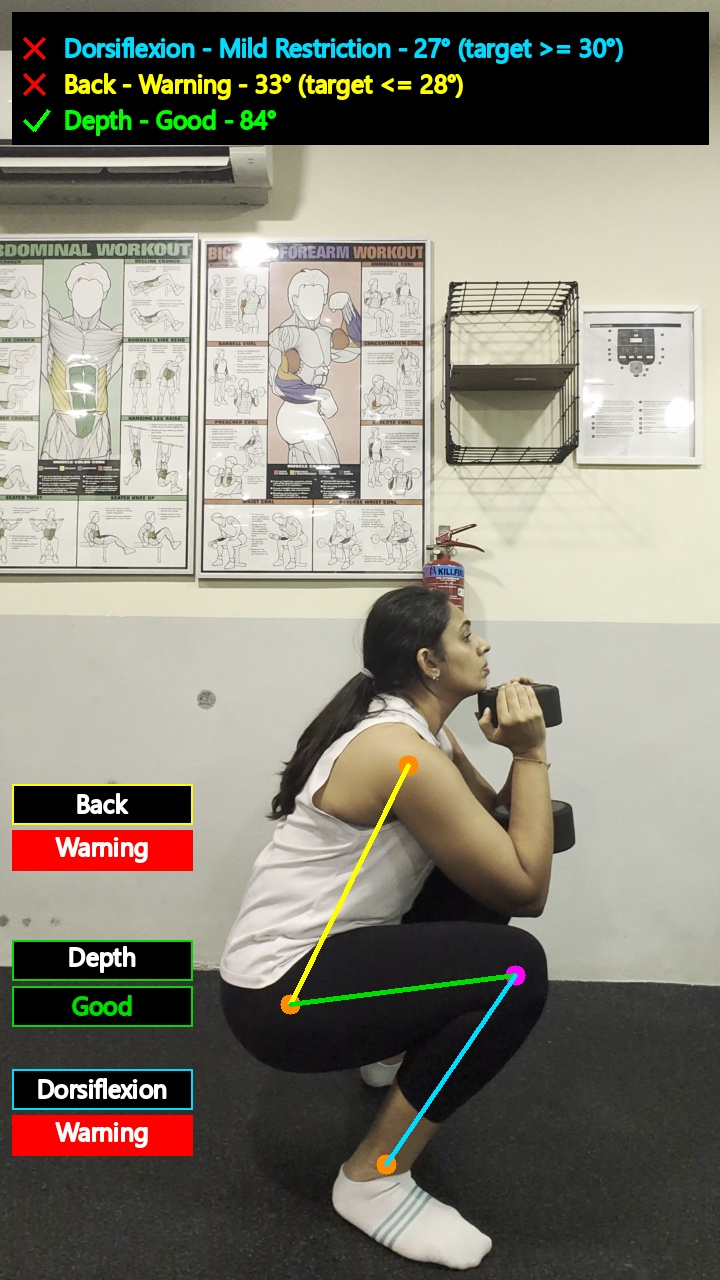
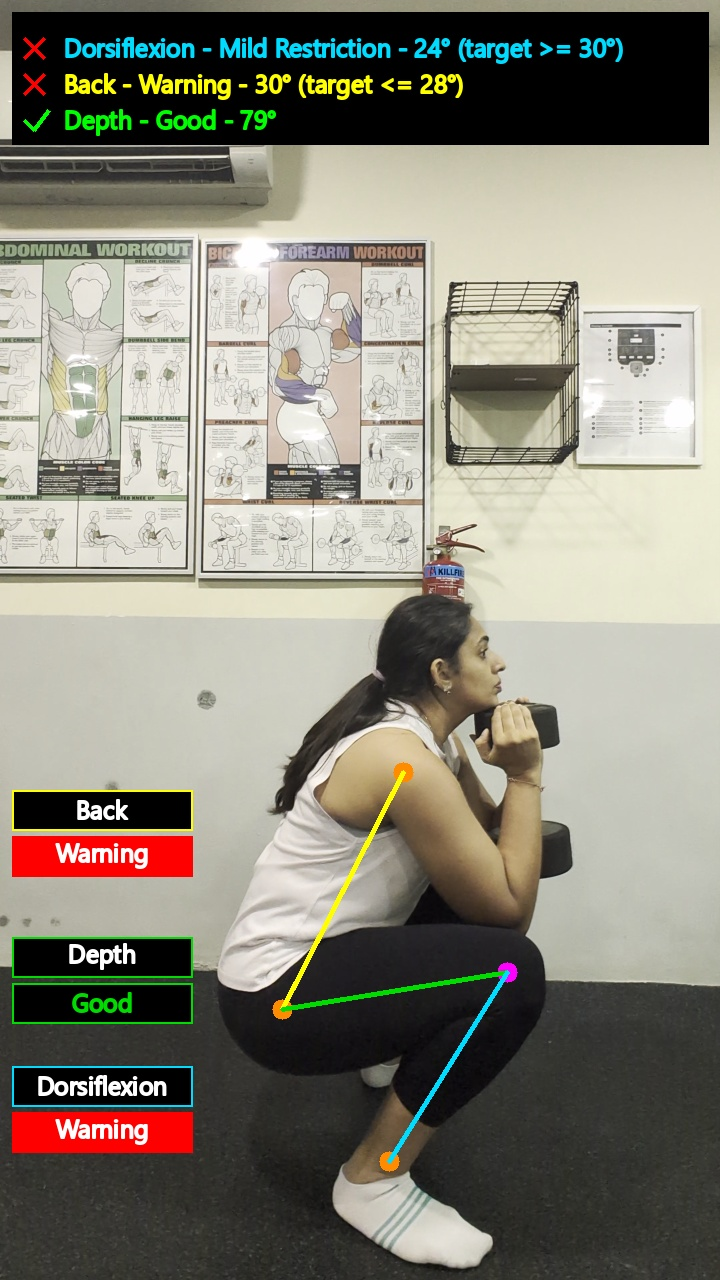
Ankle, stability tracker fixed, draw methods updated

diff --git a/mediapipe_code/utils/trackers/stability_tracker.py b/mediapipe_code/utils/trackers/stability_tracker.py
@@ -15,6 +15,9 @@ class StabilityTracker:
         "rep_frames",
         "valgus_limit_threshold",
         "current_stability_data",
+        "knee_valgus_distance",
+        "valgus_phase",
+        "valgus_flag",
     )
 
     def __init__(self):
@@ -35,6 +38,9 @@ class StabilityTracker:
         self.state = "STANDING"
         self.bottom_hold_frames = 0
         self.rep_frames = []
+        self.knee_valgus_distance = None
+        self.valgus_phase = None
+        self.valgus_flag = None
 
     # ---------------------------------------------------------
     # Helpers
@@ -94,17 +100,20 @@ class StabilityTracker:
 
         min_dist = None
         min_pos = None
+        min_shoulder_width = None
 
         for i, frame in enumerate(self.rep_frames):
             dist = frame["knee_distance"]
+            shoulder_width = frame["shoulder_width"]
             ratio = frame["knee_ratio"]
 
-            if dist is None or ratio is None:
+            if dist is None or shoulder_width is None or ratio is None:
                 continue
 
             if min_dist is None or dist < min_dist:
                 min_dist = dist
                 min_pos = i
+                min_shoulder_width = shoulder_width
 
         if min_dist is None:
             return None, None, False
@@ -124,7 +133,8 @@ class StabilityTracker:
                 phase = "LATE"
 
         valgus_flag = (
-            min_dist < self.valgus_limit_threshold
+            min_shoulder_width is not None
+            and min_dist <= min_shoulder_width
         )
 
         return (
@@ -197,6 +207,12 @@ class StabilityTracker:
 
             self.bottom_hold_frames += 1
 
+            (
+                self.knee_valgus_distance,
+                self.valgus_phase,
+                self.valgus_flag,
+            ) = self._classify_valgus_phase()
+
             if target_angle > self.hip_angle_threshold_down:
 
                 if self.bottom_hold_frames >= self.min_bottom_hold:
@@ -215,15 +231,13 @@ class StabilityTracker:
             if target_angle <= self.hip_angle_threshold_up:
                 return None
 
-            (
-                knee_valgus_distance,
-                valgus_phase,
-                valgus_flag,
-            ) = self._classify_valgus_phase()
 
 
-
-            if "side" in camera_view:
+            if (
+                self.knee_valgus_distance is None
+                or camera_view is None
+                or "side" in camera_view
+            ):
                 stability_data = {
                     "knee_valgus_distance": None,
                     "knee_gap_hip_gap_ratio": None,
@@ -233,24 +247,24 @@ class StabilityTracker:
                     "valgus_flag": None,
                 }
             else:
+                ratio = max(0.0, min(1.0, 1 - self.knee_valgus_distance))
 
-                ratio = 1 - knee_valgus_distance
-
-                if ratio >= 0.95:     valgus_severity = 'severe'
-                elif ratio >= 0.90:   valgus_severity = 'moderate'
-                elif ratio >= 0.80:   valgus_severity = 'mild'
-                else:                 valgus_severity = 'none'
-
-                knee_gap_hip_gap_ratio = ratio
-                valgus_label           = 'Good' if valgus_severity == 'none' else 'Warning'
+                if ratio >= 0.95:
+                    valgus_severity = "severe"
+                elif ratio >= 0.90:
+                    valgus_severity = "moderate"
+                elif ratio >= 0.80:
+                    valgus_severity = "mild"
+                else:
+                    valgus_severity = "none"
 
                 stability_data = {
-                    "knee_valgus_distance": knee_valgus_distance,
-                    "knee_gap_hip_gap_ratio": knee_gap_hip_gap_ratio,
+                    "knee_valgus_distance": self.knee_valgus_distance,
+                    "knee_gap_hip_gap_ratio": ratio,
                     "valgus_severity": valgus_severity,
-                    "valgus_label": valgus_label,
-                    "valgus_phase": valgus_phase,
-                    "valgus_flag": valgus_flag,
+                    "valgus_label": "Warning" if self.valgus_flag else "Good",
+                    "valgus_phase": self.valgus_phase,
+                    "valgus_flag": self.valgus_flag,
                 }
 
             self.current_stability_data = stability_data

diff --git a/mediapipe_code/utils/draw_methods.py b/mediapipe_code/utils/draw_methods.py
@@ -1,4 +1,5 @@
 import json
+import math
 import os
 
 import cv2
@@ -483,7 +484,7 @@ def add_side_faults_panel(
 
 
 def _fmt_angle(value):
-    return "N/A" if value is None else f"{value:.0f}°"
+    return "N/A" if value is None else f"{math.floor(value)}°"
 
 
 def annotate_frame_front(
@@ -519,7 +520,8 @@ def annotate_frame_front(
     depth_angle = rep_data["depth_data"]["hip_angle_at_bottom"]
     back_angle_value = rep_data["back_data"]["back_angle_at_bottom"]
 
-    valgus_label = rep_data["stability_data"]["valgus_label"]
+    valgus_flag = rep_data["stability_data"]["valgus_flag"]
+    valgus_severity = rep_data["stability_data"]["valgus_severity"]
 
     valgus_distance = rep_data["stability_data"]["knee_valgus_distance"]
     
@@ -551,10 +553,9 @@ def annotate_frame_front(
         },
         {
             "label": "Knee Tracking",
-            "pass": valgus_label.lower() == "good",
-            "text": f"{valgus_label.title()} - {int(valgus_distance*100)}%" if valgus_label.lower() == "good" 
-            else f"{back_label.title()} - {int(valgus_distance*100)}% (target > 20%)",
-            "severity": 0.0 if back_label.lower() in ("good", "excellent") else 1.0,
+            "pass": valgus_flag,
+            "text": f"{valgus_severity.title()}",
+            "severity": 0.0 if valgus_severity.lower() == "none" else 1.0,
             "color": KNEE_POINT_COLOR,
         },
     ]
@@ -593,10 +594,10 @@ def annotate_frame_front(
         width,
         height,
         frame_info["camera_view"],
-        valgus_label=valgus_label,
+        valgus_label=valgus_flag,
     )
 
-    if valgus_label == "Warning":
+    if valgus_flag == False:
         annotated = draw_knee_valgus_overlay(annotated, frame_info["norm_pose"], width, height)
 
     add_side_faults_panel(
@@ -1083,7 +1084,7 @@ def draw_valgus_status_label(
     if not knee_points:
         return annotated
 
-    status = str(valgus_label or "").strip()
+    status = valgus_label
 
     chip_width = 170
     right_padding = 12
@@ -1096,7 +1097,7 @@ def draw_valgus_status_label(
         text_x,
         text_y,
         prefix="Knee Tracking",
-        status=status or "Warning",
+        status="Good" if status else "Warning",
         font_size=25,
         color=KNEE_POINT_COLOR,
         camera_view=camera_view
@@ -1123,7 +1124,10 @@ def draw_label_with_warning_chip(
     black_rgb = (0, 0, 0)
     green_rgb = (0, 220, 0)
 
-    status_clean = str(status or "").strip()
+    if type(status) == type(True):
+        status = "Good" if status else "Warning"
+    else:
+        status_clean = str(status or "").strip()
     status_lower = status_clean.lower()
 
     border_bgr = color or (0, 220, 0)

diff --git a/mediapipe_code/landmark_framework.py b/mediapipe_code/landmark_framework.py
@@ -726,22 +726,22 @@ class LandmarkQualityFramework:
 
 # How to use it
 framework = LandmarkQualityFramework(model_path=MEDIAPIPE_MODEL)
-input_dir = "./mediapipe_code/videos/user_003_videos/user_003_3.mp4"
-analysis_path = "./mediapipe_code/results/call_1/user_001_side_17.5kg.json"
+input_dir = "./mediapipe_code/videos/user_001_videos/user_001_front_17.5kg.mp4"
+analysis_path = "./mediapipe_code/results/call_1/user_001_front_17.5kg.json"
 
-#start = time.time()
+start = time.time()
 final_json, quality_result, collage_b64, rep_frames_list = framework.process_video_once(input_dir, "goblet-squat", 17.5)
-#frame, frame_data, dominant_camera_view, rep_data = extract_worst_frame(input_dir, analysis_path, rep_frames_list, final_json)
+frame, frame_data, dominant_camera_view, rep_data = extract_worst_frame(input_dir, analysis_path, rep_frames_list, final_json)
 
-#print(rep_data)
+print(rep_data)
 
-#annotated_worst_frame = overlay_frame(frame, frame_data, dominant_camera_view, rep_data, output_filename="user_001_side_17.5kg")
+annotated_worst_frame = overlay_frame(frame, frame_data, dominant_camera_view, rep_data, output_filename="user_001_front_17.5kg")
 
 """result = run_llm_analysis_test_haiku_v2(final_json, collage_b64, debug=True)
 
 output_dir = "./mediapipe_code/results/call_1"
 os.makedirs(output_dir, exist_ok=True)
-json_filename = os.path.join(output_dir, f"user_001_side_17.5kg.json")
+json_filename = os.path.join(output_dir, f"user_001_side_12.5kg.json")
 with open(json_filename, "w", encoding="utf-8") as f:
         json.dump(
             result,

diff --git a/mediapipe_code/utils/trackers/ankle_tracker.py b/mediapipe_code/utils/trackers/ankle_tracker.py
@@ -138,17 +138,18 @@ class AnkleTracker:
         if "side" in camera_view:
             if dorsiflexion_at_bottom >= 30:
                 status = "good"
-            elif  29 >= dorsiflexion_at_bottom >= 20:
+            elif dorsiflexion_at_bottom >= 20:
                 status = "mild_restriction"
-            elif 19 >= dorsiflexion_at_bottom >= 10:
+            elif dorsiflexion_at_bottom >= 10:
                 status = "moderate_restriction"
             else:
                 status = "severe_restriction"
         else:
-            if dorsiflexion_at_bottom >= 25:
-                status = "good"
-            else:
-                status = "restricted"
+            status = (
+                "good"
+                if dorsiflexion_at_bottom >= 25
+                else "restricted"
+            )
             
         
         self.dorsiflexion_status = status 
